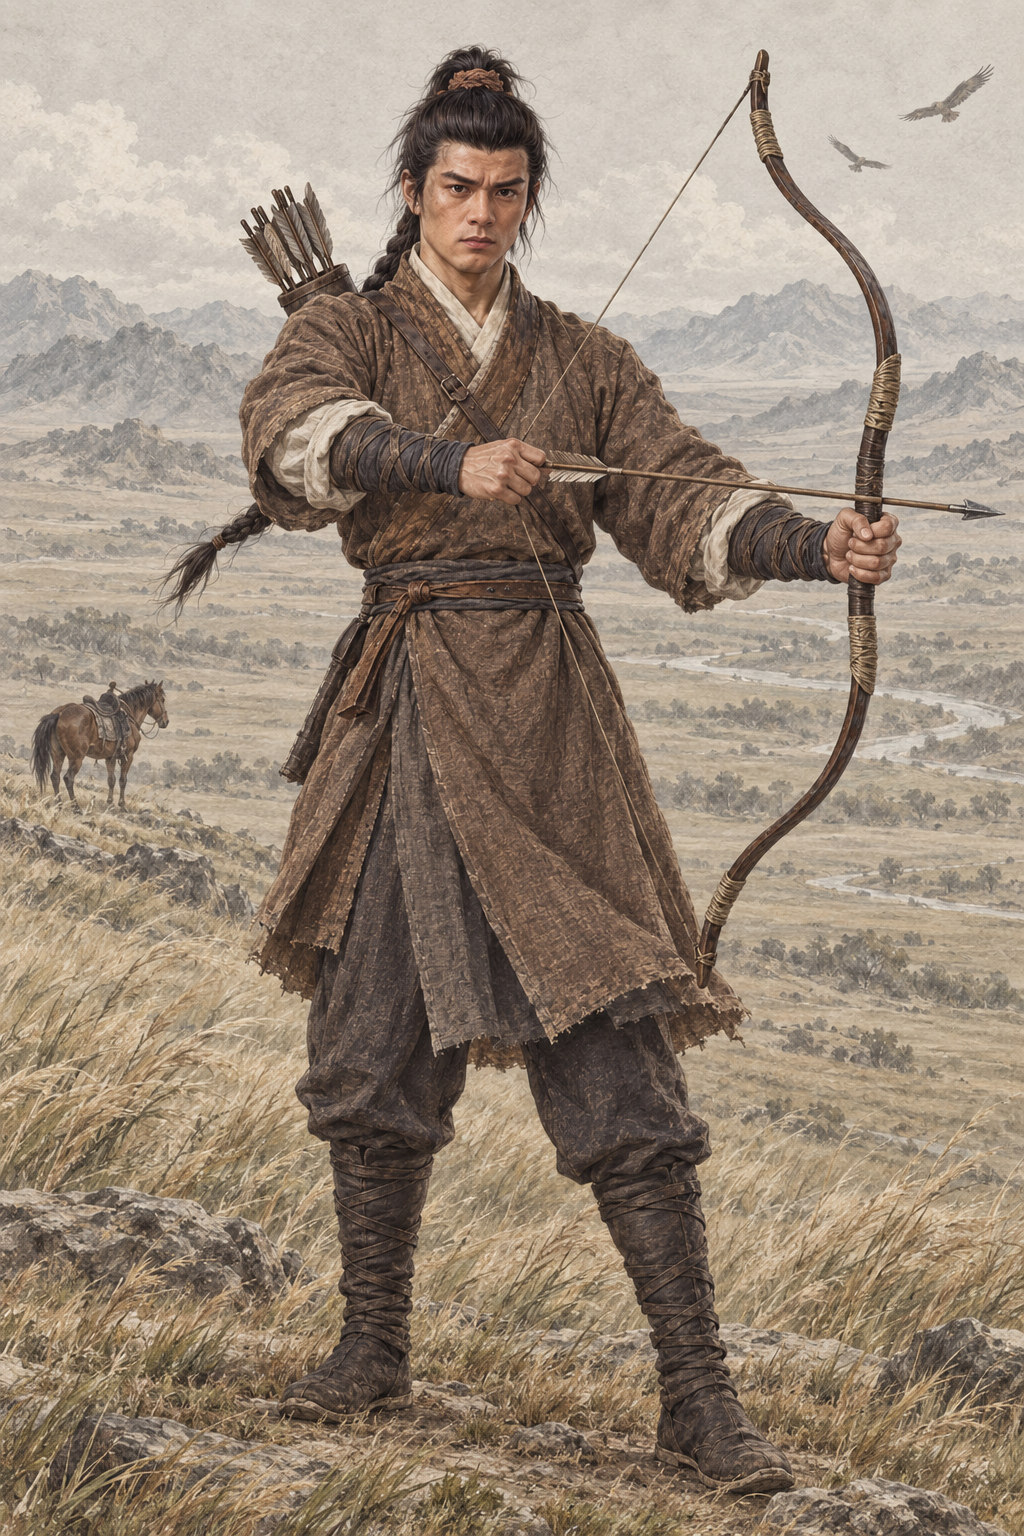
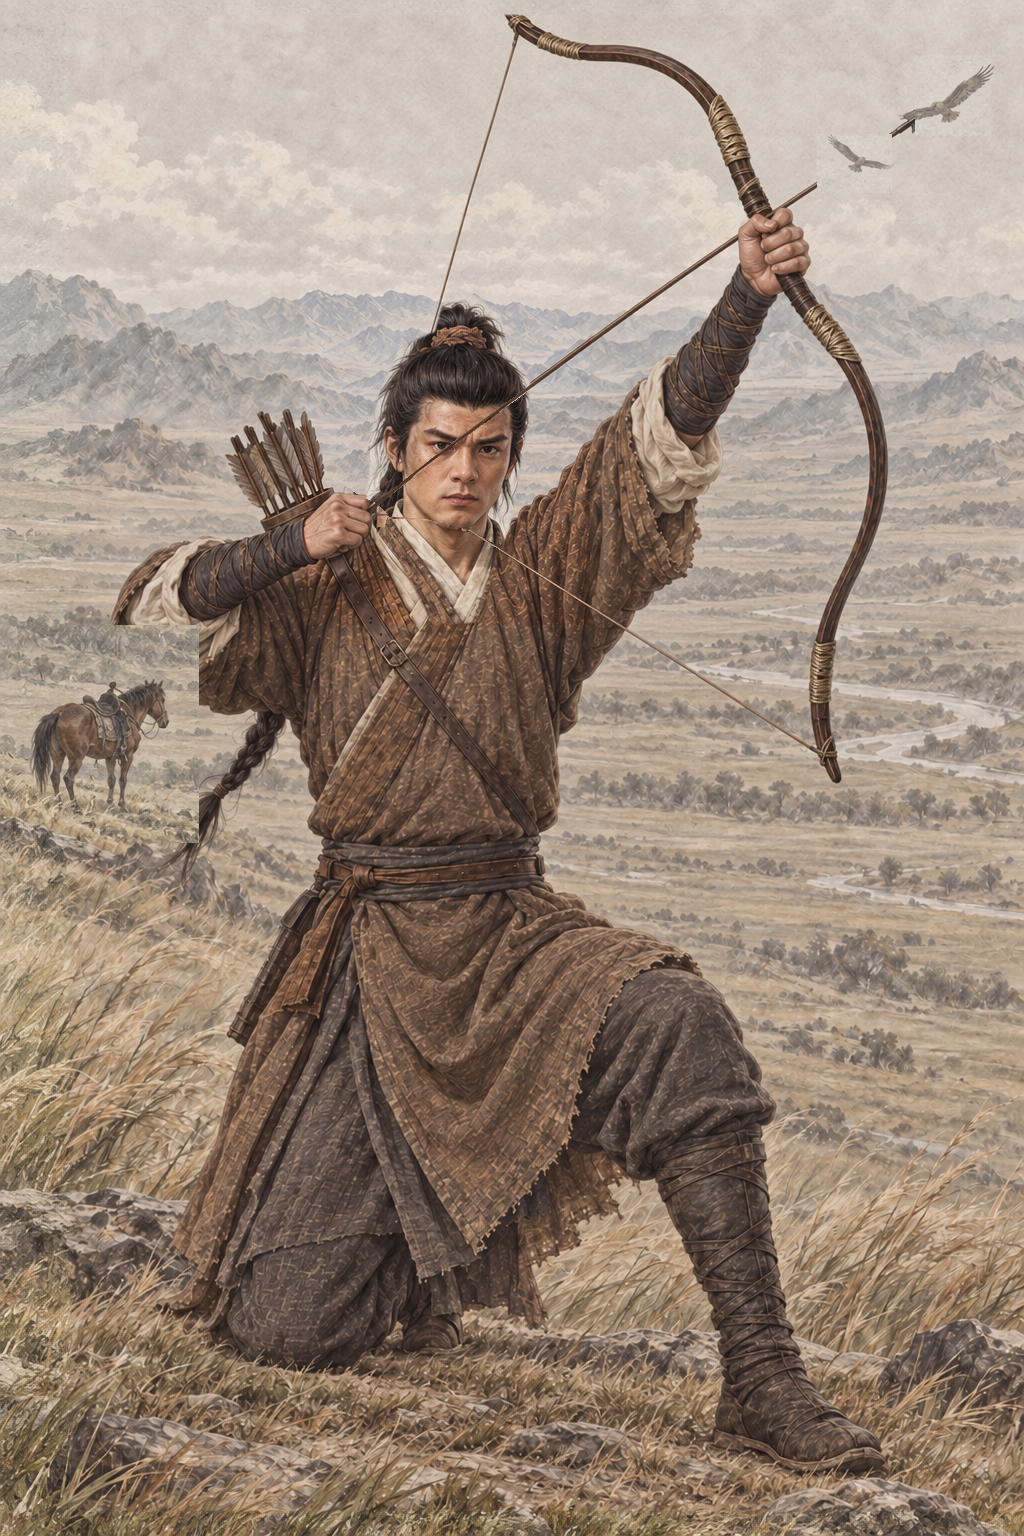
assets: AR-82 原著核对返修 郭靖一箭双雕改右膝跪地满弓仰射
原著摘句已同步提示词；已打开验图；蒙版外0像素变化。

Executed-By: Codex gpt-6.1-sol（AR-82）

diff --git a/assets/default/prompts/characters/ch02-shediao/npc_guojing__scene_grassland_double_eagle.md b/assets/default/prompts/characters/ch02-shediao/npc_guojing__scene_grassland_double_eagle.md
@@ -117,3 +117,8 @@ Create a premium REALISTIC Chinese wuxia character illustration with a delicate 
 - 采用作者授权宽松自查；偏差如实记录，candidate不代表approved。
 - 源PNG通常为1024×1536 RGB；其他原生2:3尺寸如实登记，原字节保存，不裁切、重编码、放大或去除溯源。
 - 完整请求、实际参考哈希及旧版本备份见 `.agents/coord/portrait-generation/realism-20261001/por_npc_guojing__ch02_youth_scene_grassland_double_eagle.prepared.json`。
+
+## 原著依据
+
+- 《射雕英雄传》第五回 弯弓射雕：“右膝跪地，左手稳稳托住铁弓”；“弓弯有若满月，箭去恰如流星”；https://www.xuges.com/wuxia/jinyong/sdyxz/035.htm
+- AR-82 返修约束（本节优先于历史提示词）：右膝跪地、左足前撑，左手高举弓、右手拉弦满弓，箭杆向上对准两只飞雕；不要旧站姿或残留第二张弓、旧手。原批准完整头部以原图像素平移合成，弓箭及弦遮挡在头部前方；衣着、两只飞雕、马和其余草原景保留。
